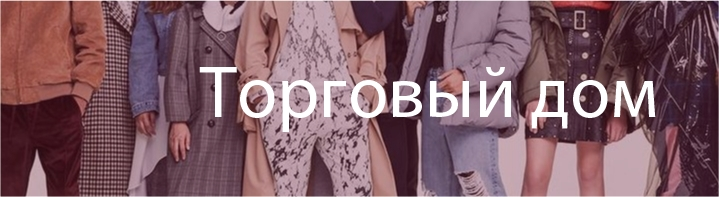
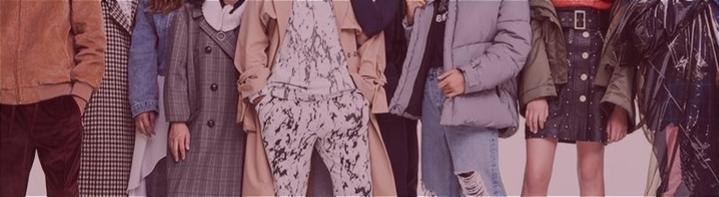
finished block 7

diff --git a/src/index.html b/src/index.html
@@ -169,7 +169,7 @@
             <div class="news__box section--grey ">
                 <div class="news__wrapper">
                     <div class="news__column">
-                        <div class="news__item news__item--lg" style="background: url(img/news-1.jpg);">
+                        <div class="news__item news__item--lg" style="background-image: url(img/news-1.jpg);">
                             <div class="dates">
                                 18.07- 29.08
                             </div>
@@ -178,7 +178,7 @@
                             </p>
                         </div>
                         <div class="news__item-wrapper">
-                            <div class="news__item" style="background: url(img/news-default.png);">
+                            <div class="news__item" style="background-image: url(img/news-default.png);">
                                 <div class="dates">
                                     18.07- 29.08
                                 </div>
@@ -186,7 +186,7 @@
                                     Курс «Fashion Illustration 2.0: путь от идеи до воплощения»
                                 </p>
                             </div>
-                            <div class="news__item" style="background: url(img/news-default.png);">
+                            <div class="news__item" style="background-image: url(img/news-default.png);">
                                 <div class="dates">
                                     18.07- 29.08
                                 </div>
@@ -199,7 +199,7 @@
 
                     <div class="news__column">
                         <div class="news__item-wrapper">
-                            <div class="news__item" style="background: url(img/news-default.png);">
+                            <div class="news__item" style="background-image: url(img/news-default.png);">
                                 <div class="dates">
                                     18.07- 29.08
                                 </div>
@@ -207,7 +207,7 @@
                                     Курс «Fashion Illustration 2.0: путь от идеи до воплощения»
                                 </p>
                             </div>
-                            <div class="news__item" style="background: url(img/news-default.png);">
+                            <div class="news__item" style="background-image: url(img/news-default.png);">
                                 <div class="dates">
                                     18.07- 29.08
                                 </div>
@@ -216,7 +216,7 @@
                                 </p>
                             </div>
                         </div>
-                        <div class="news__item news__item--lg" style="background: url(img/news-6.jpg);">
+                        <div class="news__item news__item--lg" style="background-image: url(img/news-6.jpg);">
                         </div>
                     </div>
                 </div>
@@ -340,7 +340,7 @@
 
             <div class="tradingHouse__item">
                 <div class="container">
-                    <div class="tradingHouse__item-content" style="background: url(img/traide-house-1.jpg);">
+                    <div class="tradingHouse__item-content" style="background-image: url(img/traide-house-1.jpg);">
                         <div class="tradingHouse__item-title">Торговый дом</div>
                         <div class="tradingHouse__item-text">
                             Основна компетенція команди Торгового дому – організація продажів. Зателефонуйте нам і ми
@@ -352,7 +352,7 @@
 
             <div class="tradingHouse__item">
                 <div class="container">
-                    <div class="tradingHouse__item-content" style="background: url(img/traide-house-2.jpg);">
+                    <div class="tradingHouse__item-content" style="background-image: url(img/traide-house-2.jpg);">
                         <div class="tradingHouse__item-title">Консорциум</div>
                         <div class="tradingHouse__item-text">
                             Основна компетенція команди Торгового дому – організація продажів. Зателефонуйте нам і ми
@@ -364,7 +364,7 @@
 
             <div class="tradingHouse__item">
                 <div class="container">
-                    <div class="tradingHouse__item-content" style="background: url(img/traide-house-e.jpg);">
+                    <div class="tradingHouse__item-content" style="background-image: url(img/traide-house-3.jpg);">
                         <div class="tradingHouse__item-title">Бюро </div>
                     </div>
                 </div>

diff --git a/src/css/style.css b/src/css/style.css
@@ -679,3 +679,61 @@ video {
   line-height: 24px;
   font-weight: 700;
 }
+
+.tradingHouse {
+  margin-top: 60px;
+}
+
+.tradingHouse .tradingHouse__box .section__title {
+  margin-bottom: 0;
+  padding-bottom: 40px;
+}
+
+.tradingHouse__wrapper .tradingHouse__item:first-child {
+  background-color: rgba(215, 134, 172, 0.65);
+}
+
+.tradingHouse__wrapper .tradingHouse__item:nth-child(2n + 2) {
+  background-color: rgba(202, 176, 231, 0.65);
+}
+
+.tradingHouse__wrapper .tradingHouse__item:nth-child(3n + 3) {
+  background-color: rgba(229, 169, 194, 0.65);
+}
+
+.tradingHouse__wrapper .tradingHouse__item .tradingHouse__item-content {
+  display: -webkit-box;
+  display: -ms-flexbox;
+  display: flex;
+  -webkit-box-pack: justify;
+  -ms-flex-pack: justify;
+  justify-content: space-between;
+  -webkit-box-align: center;
+  -ms-flex-align: center;
+  align-items: center;
+  background-repeat: no-repeat;
+}
+
+.tradingHouse__wrapper .tradingHouse__item .tradingHouse__item-content .tradingHouse__item-title {
+  margin-left: 15%;
+  padding: 54px 0;
+  color: #ffffff;
+  -ms-flex-negative: 0;
+  flex-shrink: 0;
+  font-family: "Rubik", sans-serif;
+  font-size: 74px;
+  line-height: 88px;
+  font-weight: 700;
+}
+
+.tradingHouse__wrapper .tradingHouse__item .tradingHouse__item-content .tradingHouse__item-text {
+  color: #ffffff;
+  max-width: 302px;
+  width: 100%;
+  -ms-flex-negative: 0;
+  flex-shrink: 0;
+  font-family: "Myriad Pro";
+  font-size: 18px;
+  font-weight: 400;
+  line-height: 26px;
+}

diff --git a/src/sass/sections/_tradingHouse.scss b/src/sass/sections/_tradingHouse.scss
@@ -1,0 +1,54 @@
+// traiding house
+
+.tradingHouse {
+  margin-top: 60px;
+  .tradingHouse__box {
+    .section__title {
+        margin-bottom: 0;
+        padding-bottom: 40px;
+    }
+  }
+}
+
+.tradingHouse__wrapper {
+  .tradingHouse__item {
+    &:first-child {
+      background-color: rgba(215, 134, 172, 0.65);
+    }
+    &:nth-child(2n + 2) {
+      background-color: rgba(202, 176, 231, 0.65);
+    }
+
+    &:nth-child(3n + 3) {
+      background-color: rgba(229, 169, 194, 0.65);
+    }
+
+    .tradingHouse__item-content {
+        display: flex;
+        justify-content: space-between;
+        align-items: center;
+        background-repeat: no-repeat;
+      .tradingHouse__item-title {
+        margin-left: 15%;
+        padding: 54px 0;
+        color: #ffffff;
+        flex-shrink: 0;
+        font-family: "Rubik", sans-serif;
+        font-size: 74px;
+        line-height: 88px;
+        font-weight: 700;
+      }
+
+      .tradingHouse__item-text {
+        color: #ffffff;
+        max-width: 302px;
+        width: 100%;
+        flex-shrink: 0;
+        font-family: "Myriad Pro";
+        font-size: 18px;
+        font-weight: 400;
+        line-height: 26px;
+      }
+    }
+  }
+}
